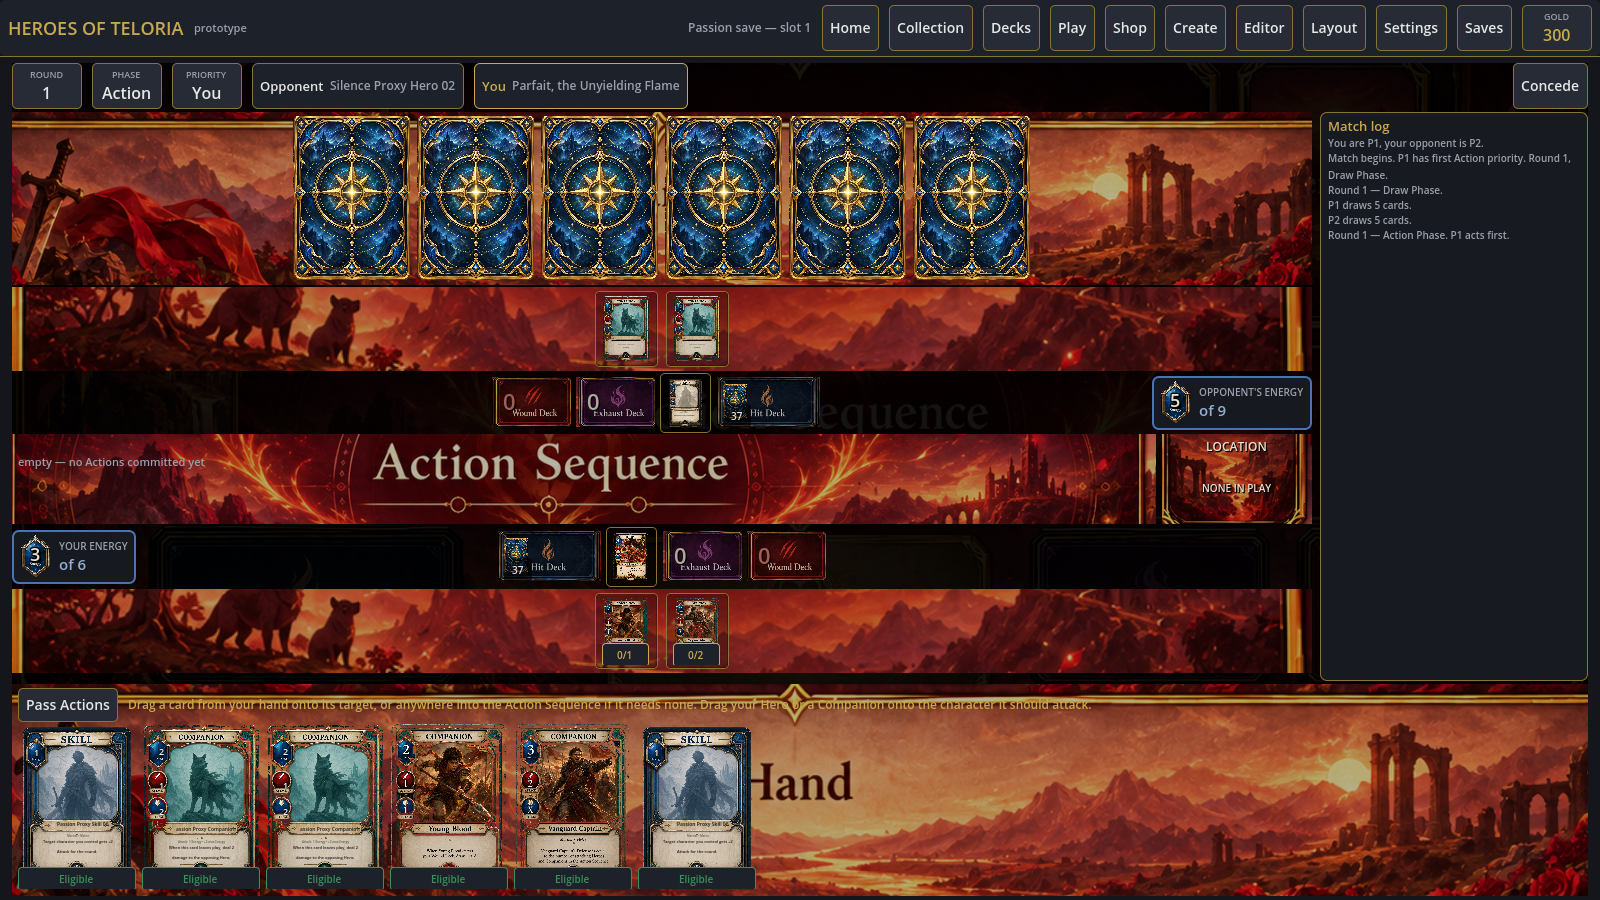
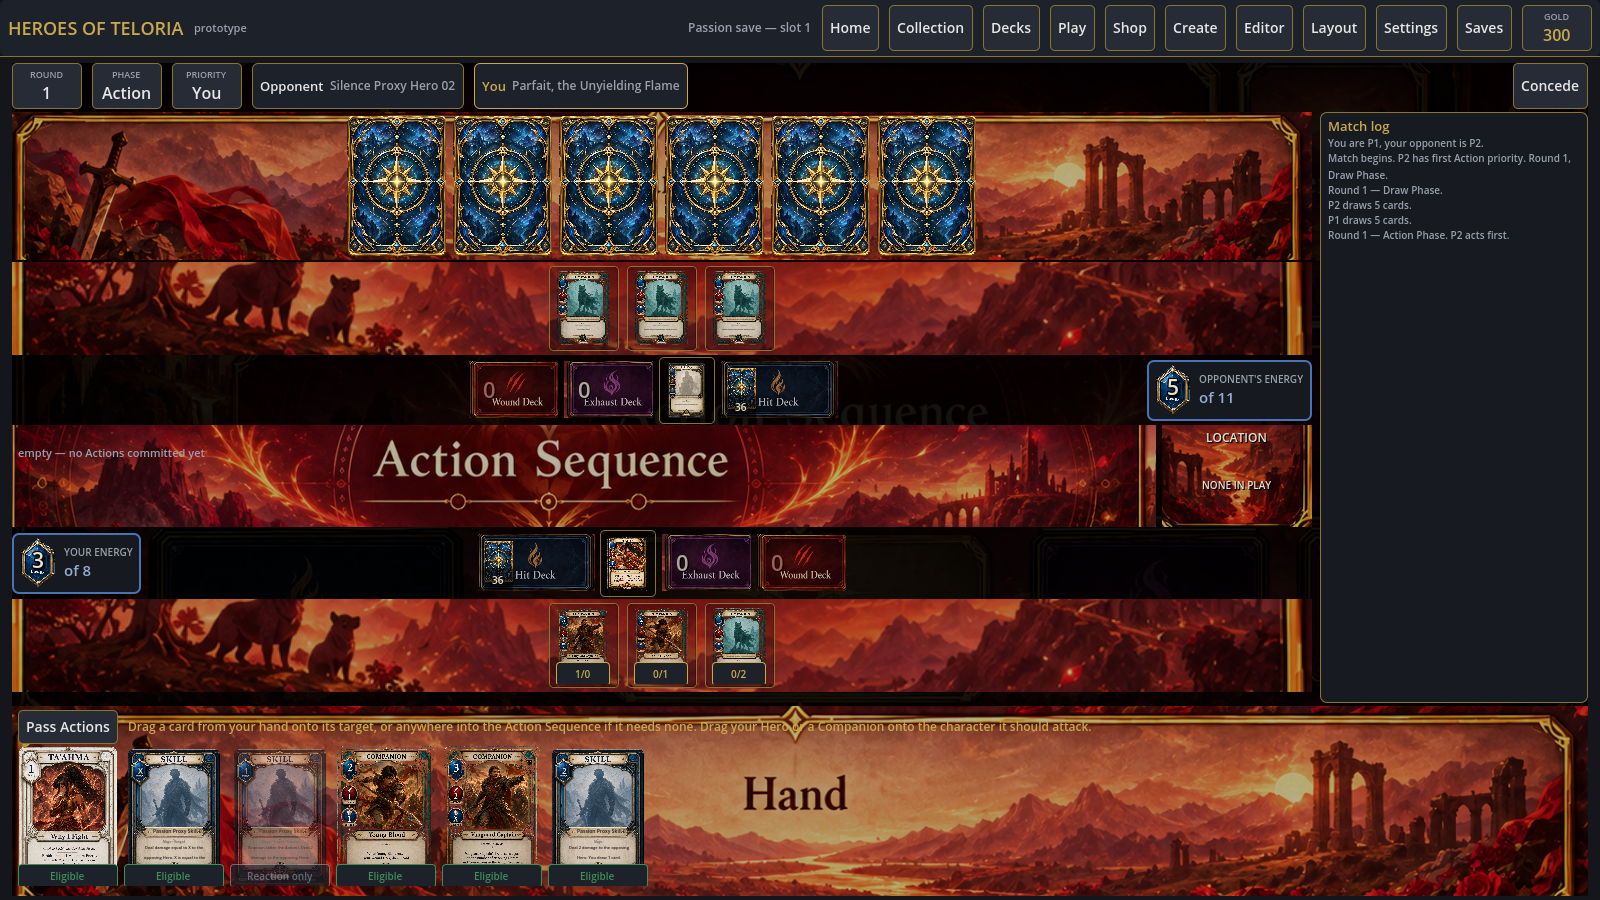
Match the two hands at a size the table can afford
Both hands are drawn at the same width, which was the point, and that width is
now 100 rather than 118. A hand is not scaled when the board is fitted to the
window, so the two hands are the one real claim on the screen's height: at 118
apiece they took about 390 of 833 and left the table at two thirds size. At 100
they leave it at three quarters, which is a Companion drawn 54 wide against 50,
and a hand still comfortably readable.

hand_card_w is the number that decides that split, and both hands use it, so
they cannot drift apart by accident. opp_hand_card_w narrows the opponent's
alone for anyone who would rather spend the room on the table.

1329 assertions across six suites, all passing.

Claude-Session: https://claude.ai/code/session_01FqpqEYH3RyaCaGf7y5ZbA3

diff --git a/README.md b/README.md
@@ -166,11 +166,15 @@ because only how many they hold is public — but how many they hold matters
 constantly, so it is a row of card backs on their own plate at the top of the
 board, mirroring your hand at the bottom, rather than a number in a bar. Their
 backs are drawn at exactly the size of the cards in your own hand: the same
-cards, held the other way up. Neither hand is scaled when the board is fitted
-to the window, because a hand is not part of the table — which means two full
-hands take a real bite out of the height, and the cards on the table are drawn
-smaller to pay for it. `opp_hand_card_w` in the Layout screen's Board tab is
-the one number that buys that room back. The
+cards, held the other way up.
+
+Neither hand is scaled when the board is fitted to the window, because a hand
+is not part of the table. That makes the two hands the one real claim on the
+screen's height, and `hand_card_w` — which both of them use — the number that
+decides how the height is split between a hand you can read and a table you can
+read. It is set where the two are about even; the Layout screen's Board tab
+moves it, and `opp_hand_card_w` narrows the opponent's alone if you would
+rather spend the room on the table. The
 bar at the top no longer repeats either that or the Energy: both are on the
 board itself, and a number said in two places is a number that ends up
 disagreeing with itself.
